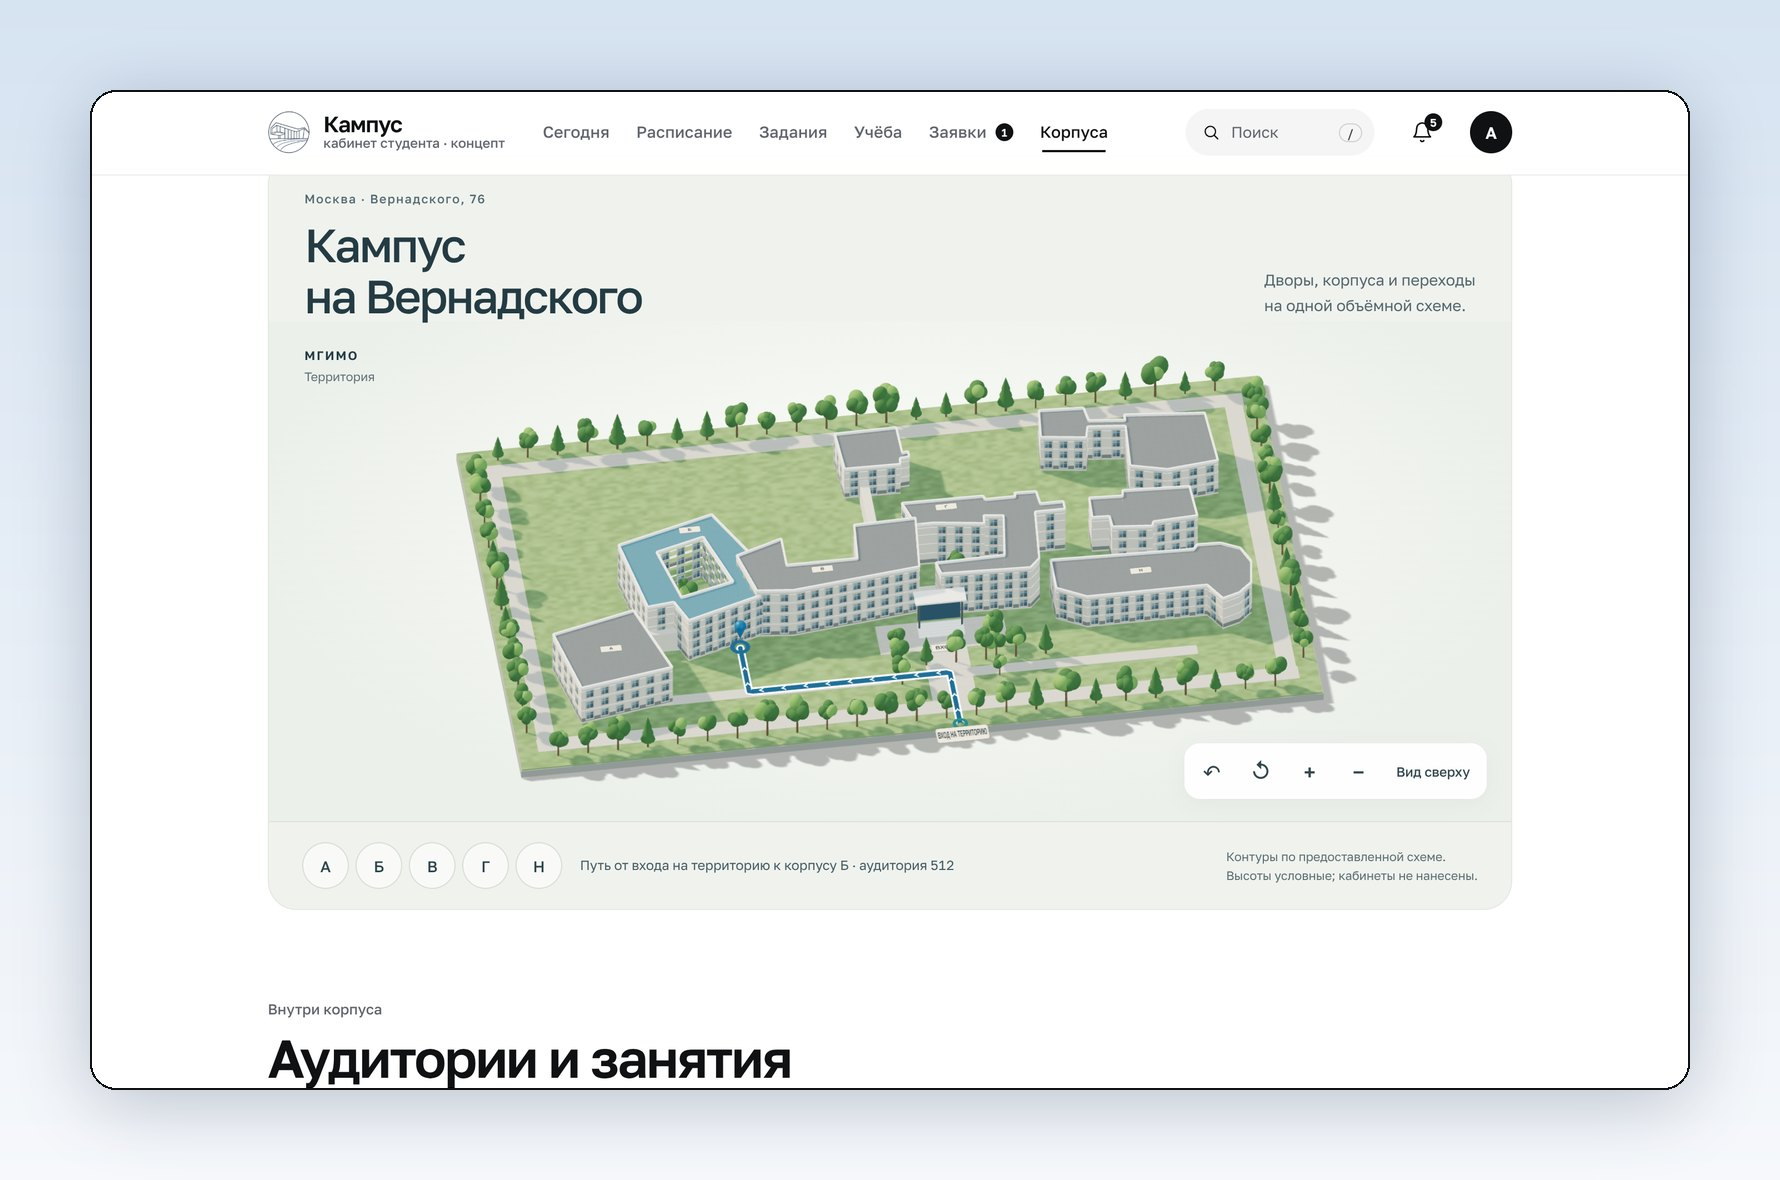
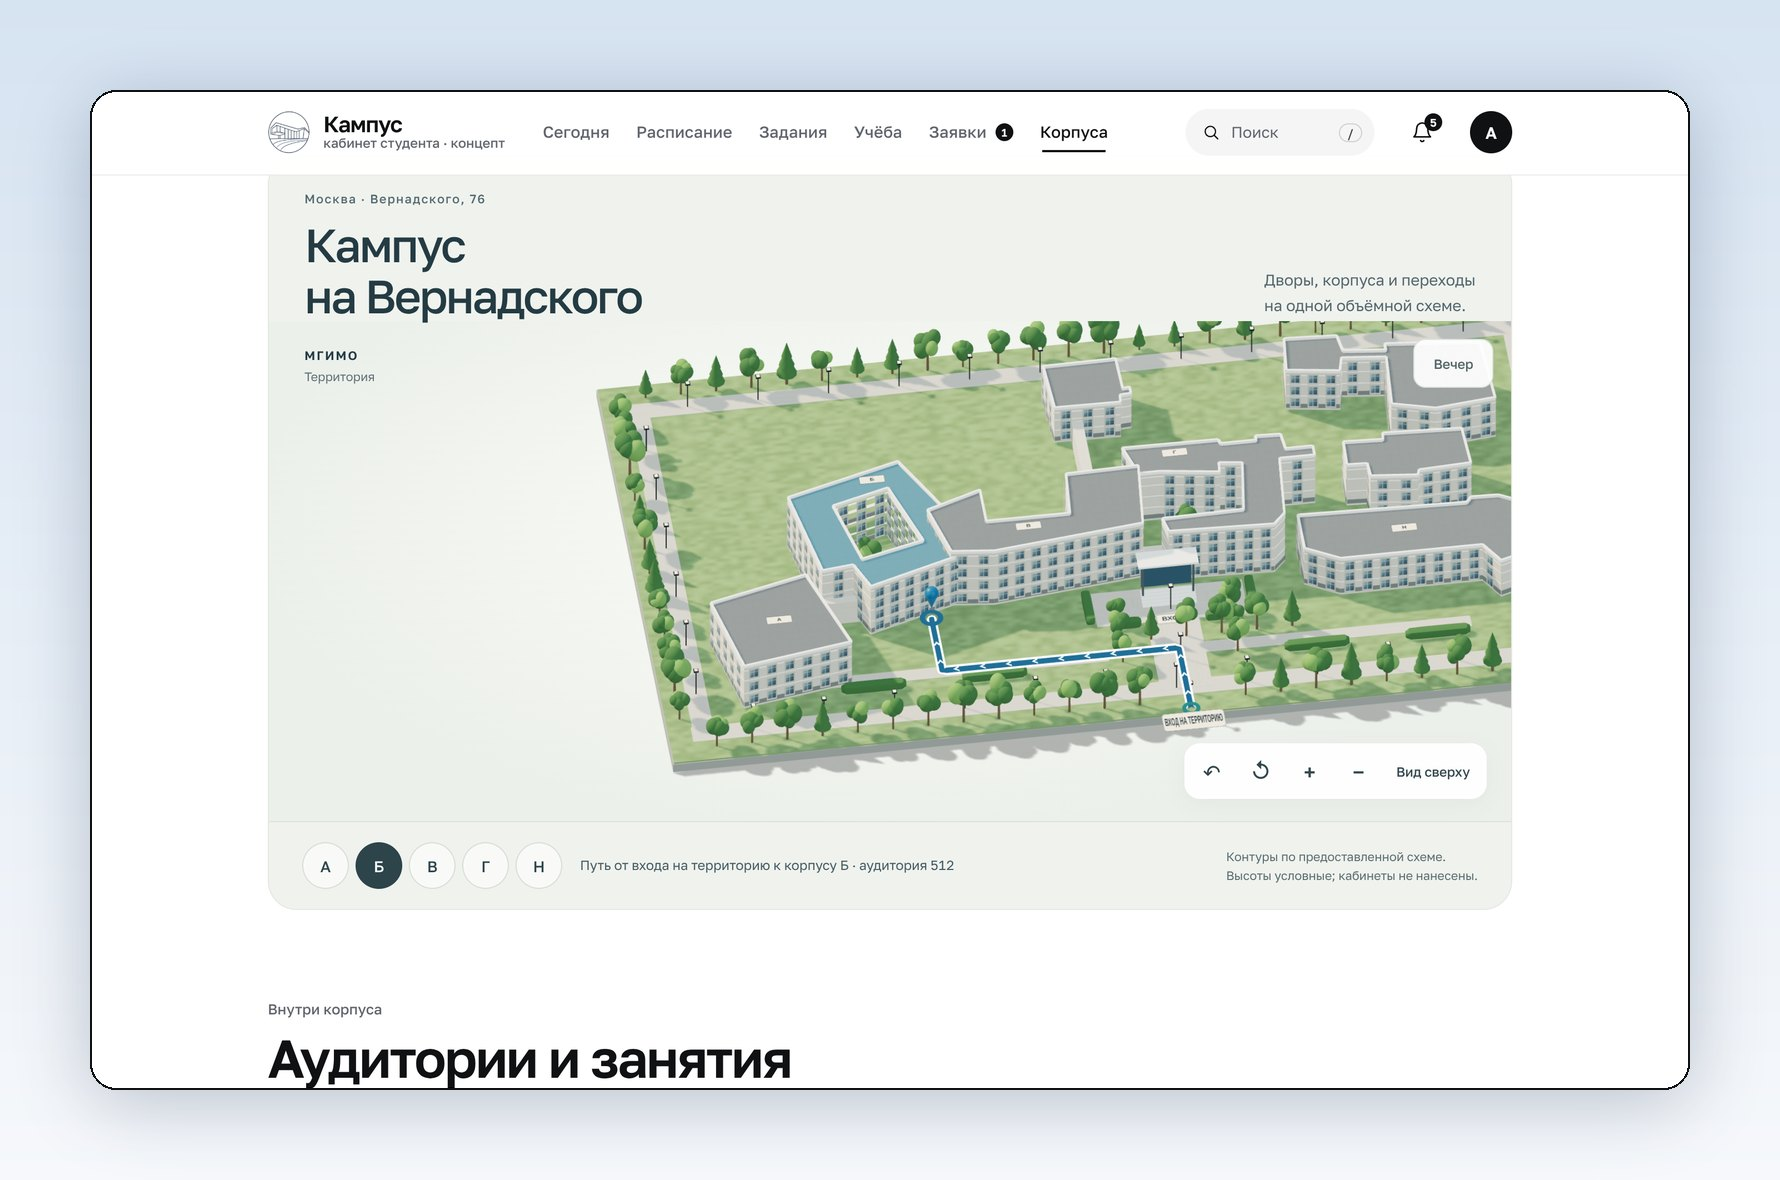
3D-этаж: парты, доска, перегородки с дверями, амфитеатр; новые снимки README
Claude-Session: https://claude.ai/code/session_01WXnceTRAi8bW5CZN4AeUqz

Changed region(s): [[0.2472, 0.2746, 0.8652, 0.6712], [0.1854, 0.7017, 0.2472, 0.7627]]

diff --git a/public/js/scene3d.js b/public/js/scene3d.js
@@ -85,7 +85,7 @@ export function mountScene(host) {
     const corridors=layout.corridors||[{x:8,y:94,w:584,h:36}];
     const tiles=[];
     for(const p of plates)box(X(p.x+p.w/2),-.18,Z(p.y+p.h/2),p.w/20,.34,p.h/20,concrete);
-    for(const p of corridors)box(X(p.x+p.w/2),.015,Z(p.y+p.h/2),p.w/20,.04,p.h/20,material('terrazzo',0xd8d6cc));
+    for(const p of corridors)box(X(p.x+p.w/2),.015,Z(p.y+p.h/2),p.w/20,.04,p.h/20,material('terrazzo',0xded9d0,.94));
     const tileColors={free:0xd6dfce,busy:0xe5ddd0,staff:0xe6c1ab,off:0xe0dfd9,mine:0xb2cbd6,unknown:0xe4e7e3};
     for(const r of layout.boxes) {
       const state=mine.has(r.r.key)?'mine':roomState(r.r.key,pair).cls;
@@ -93,52 +93,32 @@ export function mountScene(host) {
       tiles.push({room:r.r.key,x:X(r.x+r.w/2),z:Z(r.y+r.h/2),w:(r.w-2)/20,d:(r.h-2)/20,color:selected?0x7caeb6:tileColors[state]});
       const x=X(r.x),z=Z(r.y),w=r.w/20,d=r.h/20;
       const vertical=r.side==='w'||r.side==='e';
-      const wallH=1.12;
-      // Corridor wall has an actual door opening, rather than a line over a wall.
+      const wallH=1.12,partition=material('floor-partitions',0xf0ede5,.9);
+      const wall=(xx,zz,ww,dd)=>box(xx,wallH/2,zz,ww,wallH,dd,partition,0,4);
+      // SVG door spans 6..20 plan units; routing passes through its centre at 13.
       if(!vertical) {
         const outer=r.side==='n'?z:z+d, inner=r.side==='n'?z+d:z;
-        box(x+w/2,wallH/2,outer,w,wallH,.09);
-        box(x,wallH/2,z+d/2,.09,wallH,d);
-        box(x+w,wallH/2,z+d/2,.09,wallH,d);
-        box(x+.16,wallH/2,inner,.32,wallH,.08);
-        box(x+(w+.95)/2,wallH/2,inner,Math.max(.01,w-.95),wallH,.08);
-        box(x+.63,.48,inner+(r.side==='n'?-.18:.18),.55,.96,.045,wood,.6);
+        wall(x+w/2,outer,w,.09);
+        wall(x,z+d/2,.09,d);wall(x+w,z+d/2,.09,d);
+        wall(x+.15,inner,.3,.08);
+        wall(x+(w+1)/2,inner,w-1,.08);
         for(let wx=.5;wx<w-.2;wx+=.9)windowBay(x+wx,.7,outer+(r.side==='n'?-.065:.065),.58,.48,r.side==='n'?Math.PI:0);
-        box(x+.83,.51,inner+(r.side==='n'?-.2:.2),.11,.025,.08,metal,.6,1);
         box(x+w/2,.1,outer,w,.1,.12,trim);
       } else {
         const outer=r.side==='w'?x:x+w, inner=r.side==='w'?x+w:x;
-        box(outer,wallH/2,z+d/2,.09,wallH,d);
-        box(x+w/2,wallH/2,z,w,wallH,.09);box(x+w/2,wallH/2,z+d,w,wallH,.09);
-        box(inner,wallH/2,z+.16,.08,wallH,.32);
-        box(inner,wallH/2,z+(d+.95)/2,.08,wallH,Math.max(.01,d-.95));
-        box(inner+(r.side==='w'?-.18:.18),.48,z+.63,.045,.96,.55,wood,.6);
+        wall(outer,z+d/2,.09,d);
+        wall(x+w/2,z,w,.09);wall(x+w/2,z+d,w,.09);
+        wall(inner,z+.15,.08,.3);
+        wall(inner,z+(d+1)/2,.08,d-1);
         for(let wz=.5;wz<d-.2;wz+=.9)windowBay(outer+(r.side==='w'?-.065:.065),.7,z+wz,.58,.48,r.side==='w'?-Math.PI/2:Math.PI/2);
-        box(inner+(r.side==='w'?-.2:.2),.51,z+.83,.08,.025,.11,metal,.6,1);
         box(outer,.1,z+d/2,.12,.1,d,trim);
       }
       const kind=r.r.kind.toLowerCase();
       if(kind.includes('спорт')) {
         box(x+w/2,.09,z+d/2,w*.75,.02,d*.75,material('court',0xa6b8ab));
         box(x+w/2,.105,z+d/2,.03,.015,d*.75,trim);
-      } else {
-        const rotation={n:0,s:Math.PI,w:Math.PI/2,e:-Math.PI/2}[r.side];
-        const rw=vertical?d:w,rd=vertical?w:d;
-        const cols=Math.max(1,Math.floor((rw-.45)/.82)),rows=Math.max(1,Math.min(4,Math.floor((rd-.6)/.86)));
-        const part=(u,v,yy,ww,hh,dd,mat,detail=0)=>box(x+w/2+u*Math.cos(rotation)+v*Math.sin(rotation),yy,z+d/2-u*Math.sin(rotation)+v*Math.cos(rotation),ww,hh,dd,mat,rotation,detail);
-        for(let row=0;row<rows;row++)for(let col=0;col<cols;col++) {
-          const u=-rw/2+.45+col*(rw-.65)/cols,v=-rd/2+.5+row*(rd-.8)/rows;
-          part(u,v,.43,.57,.055,.34,wood);
-          for(const s of [-1,1]){part(u+s*.22,v,.21,.035,.42,.28,metal);part(u+s*.22,v,.07,.085,.035,.32,metal,1);}
-          part(u,v+.29,.27,.33,.065,.3,blue);part(u,v+.43,.45,.33,.28,.04,blue);
-          for(const s of [-1,1]){part(u+s*.13,v+.2,.13,.025,.26,.025,metal,1);part(u+s*.13,v+.4,.2,.025,.4,.025,metal,1);}
-          if(kind.includes('компьютер')){
-            part(u,v,.65,.32,.22,.045,metal);part(u,v+.027,.65,.28,.17,.009,m.glassLight);
-            part(u,v,.52,.04,.12,.04,metal,1);part(u,v+.1,.47,.29,.016,.1,trim,1);
-          }
-        }
-        part(0,-rd/2+.08,.7,Math.min(rw*.6,1.8),.5,.05,material('board-dark',0x354f48));
-        part(0,-rd/2+.13,.435,Math.min(rw*.6,1.8),.025,.09,metal,1);
+      } else if(r.r.seats>0) {
+        kit.classroom(x,z,w,d,r.side,r.r.seats,mobile);
       }
       text(r.r.room,x+w/2,1.32,z+d/2,Math.min(1.5,Math.max(.9,w*.65)));
     }

diff --git a/public/js/architecture-kit.js b/public/js/architecture-kit.js
@@ -73,6 +73,10 @@ export function createArchitectureKit(root) {
   function setEvening(evening) {
     glowingWindows.forEach((mat)=>{mat.emissiveIntensity=evening?.8:0;});
     lampGlow.emissiveIntensity=evening?1.8:.65;
+    for(const name of ['floor-partitions','classroom-desks','classroom-board','terrazzo']) {
+      const mat=materials.get(name);
+      if(mat){mat.emissive.copy(mat.color);mat.emissiveIntensity=evening?.12:0;}
+    }
   }
   let windowIndex=0;
   function instance(geometry,mat,x,y,z,w,h,d,rotation=0,detail=0) {
@@ -83,6 +87,37 @@ export function createArchitectureKit(root) {
     batch.items.push({x,y,z,w,h,d,rotation});
   }
   const box=(x,y,z,w,h,d,mat=m.stone,rotation=0,detail=0)=>instance(geometries.box,mat,x,y,z,w,h,d,rotation,detail);
+  // Floor-wide box batches: one draw per finish, no chair/leg geometry.
+  function classroom(x,z,w,d,side,seats,mobile=false) {
+    const rotation={n:0,s:Math.PI,w:Math.PI/2,e:-Math.PI/2}[side];
+    const vertical=side==='w'||side==='e',rw=vertical?d:w,rd=vertical?w:d;
+    const desk=material('classroom-desks',0xc6aa83,.86);
+    const board=material('classroom-board',0x354b46,.96);
+    const part=(u,v,y,ww,hh,dd,mat)=>box(x+w/2+u*Math.cos(rotation)+v*Math.sin(rotation),y,z+d/2-u*Math.sin(rotation)+v*Math.cos(rotation),ww,hh,dd,mat,rotation,4);
+    // Keep the board inside the outer wall and the corridor door clear.
+    part(0,-rd/2+.09,.74,Math.min(rw*.65,1.8),.34,.045,board);
+    if(mobile||rw<.65||rd<1.2)return;
+    const usableW=rw-.3,front=-rd/2+.65,back=rd/2-.45;
+    part(0,-rd/2+.35,.38,Math.min(usableW*.6,.85),.065,.27,desk);
+    if(back<=front)return;
+    if(seats>=60) {
+      const rows=Math.min(6,Math.max(3,Math.ceil(seats/24)));
+      for(let row=0;row<rows;row++) {
+        const v=front+(row+.5)*(back-front)/rows;
+        // Broad, progressively raised tiers read as a lecture amphitheatre.
+        part(0,v,.13+row*.045,usableW*.9,.1+row*.09,Math.min(.3,(back-front)/rows*.65),desk);
+      }
+    } else {
+      const cols=Math.max(1,Math.min(4,Math.floor(usableW/.65)));
+      const maxRows=Math.max(1,Math.min(6,Math.floor((back-front)/.55)));
+      const count=Math.min(24,Math.ceil(seats/2),cols*maxRows);
+      const rows=Math.ceil(count/cols),dw=Math.min(.57,usableW/cols*.78);
+      for(let i=0;i<count;i++) {
+        const col=i%cols,row=Math.floor(i/cols);
+        part(-usableW/2+(col+.5)*usableW/cols,front+(row+.5)*(back-front)/rows,.37,dw,.055,Math.min(.3,(back-front)/rows*.55),desk);
+      }
+    }
+  }
   function prism(points,holes,height,bottom=0,cap=m.roof,side=m.stone,bevel=.025) {
     const shape=new T.Shape(points.map(([x,z])=>new T.Vector2(x,-z)));
     for(const pts of holes)shape.holes.push(new T.Path(pts.map(([x,z])=>new T.Vector2(x,-z))));
@@ -159,6 +194,7 @@ export function createArchitectureKit(root) {
     for(const [group,list] of batches)for(const batch of list) {
       const mesh=new T.InstancedMesh(batch.geometry,batch.mat,batch.items.length);
       batch.items.forEach((v,i)=>{dummy.position.set(v.x,v.y,v.z);dummy.rotation.set(0,v.rotation,0);dummy.scale.set(v.w,v.h,v.d);dummy.updateMatrix();mesh.setMatrixAt(i,dummy.matrix);});
+      if(batch.detail===4)mesh.raycast=()=>{};
       mesh.userData.detail=batch.detail;mesh.castShadow=batch.detail===0;mesh.receiveShadow=true;
       mesh.matrixAutoUpdate=false;group.add(mesh);
     }
@@ -183,7 +219,7 @@ export function createArchitectureKit(root) {
     }
     batches.clear();labels.clear();
   }
-  return {m,setEvening,material,box,prism,text,plant,lamp,hedge,bench,windowBay,flush,setGroup:(group)=>{target=group;}};
+  return {m,setEvening,material,box,classroom,prism,text,plant,lamp,hedge,bench,windowBay,flush,setGroup:(group)=>{target=group;}};
 }
 
 export function studioEnvironment() {

diff --git a/docs/architecture-model.md b/docs/architecture-model.md
@@ -82,7 +82,9 @@ node tests/browser_navigation.cjs
 
 Когда в «Корпусах» выбрана пара или аудитория, макет территории показывает путь от входа на территорию по аллее и поперечным дорожкам до двери корпуса (`territoryRoute` в `campus-geometry.js`): светлая подложка, синяя линия поверх, белые шевроны по направлению движения, кольца начала и конца и метка над входом. Корпус цели подсвечивается. Соответствие учебных корпусов расписания корпусам макета проектное (`BUILDING_WING`). Для отменённых и онлайн-пар путь не строится.
 
-Деревья двух пород: лиственные из 6–8 перекрывающихся крон разного размера и узкие хвойные из трёх конусов (примерно каждое четвёртое дерево). Добавлены фонари и живые изгороди как переиспользуемые элементы набора. Фонари стоят вдоль дорожек и у входов в корпуса (39 шт.), изгороди — у площади и отмостки. Всё рисуется экземплярами: на мобильном профиле 27 вызовов отрисовки (проверяется в `tests/browser_3d.cjs`).
+Деревья двух пород: лиственные из 6–8 перекрывающихся крон разного размера и узкие хвойные из трёх конусов (примерно каждое четвёртое дерево). Добавлены фонари и живые изгороди как переиспользуемые элементы набора. В 3D-этаже (кроме мобильного профиля) парты рядами по числу мест, стол преподавателя и доска; в аудиториях от 60 мест — ступени амфитеатра. Низкие перегородки с проёмами дверей совпадают с 2D-планом, пол коридора чуть теплее пола аудиторий. Мебель рисуется экземплярами и не участвует в выборе.
+
+Фонари стоят вдоль дорожек и у входов в корпуса (39 шт.), изгороди — у площади и отмостки. Всё рисуется экземплярами: на мобильном профиле 27 вызовов отрисовки (проверяется в `tests/browser_3d.cjs`).
 
 При выборе пути камера плавно подлетает к корпусу цели; кнопка корпуса отмечается `aria-pressed`. При `prefers-reduced-motion` перелёт заменяется мгновенной сменой вида.
 

diff --git a/README.md b/README.md
@@ -29,9 +29,13 @@
 
 Объёмная модель территории на three.js: корпуса по контурам кампуса на Вернадского, газоны, дорожки и аллеи, мягкое низкое солнце. Модель вращается, приближается и облетает; выбор корпуса открывает его здание и этажи. Когда выбрана пара или аудитория, на территории подсвечивается путь от входа по дорожкам до двери нужного корпуса — со стрелками направления и меткой цели, а внутри корпуса маршрут продолжается до двери аудитории.
 
+![Вечерний режим макета](docs/screenshots/student-campus-evening.jpg)
+
+Кнопка «Вечер» включает закатное освещение: светятся окна и фонари вдоль дорожек, путь к аудитории остаётся читаемым.
+
 ![Корпус и план этажа](docs/screenshots/student-rooms.jpg)
 
-Корпуса — настоящие планы этажей: коридор, двери, лестница и лифт, ряды амфитеатра в лекционных. Свободные аудитории на выбранную пару, ваше занятие, отметки деканата; этажи стопкой в 3D.
+Корпуса — проектные планы этажей: коридоры, двери, лестница и лифт. В 3D видны парты по числу мест, доска, перегородки и амфитеатр в лекционных. Коридоры главного корпуса названы как улицы, и маршрут называет их по порядку. Кнопка «Ближайшая свободная аудитория» найдёт, где подготовиться между парами. Свободные аудитории на выбранную пару, ваше занятие, отметки деканата; этажи стопкой в 3D.
 
 ## Преподаватель
 
